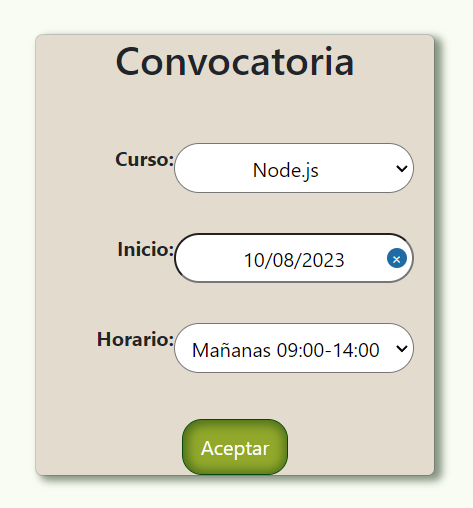
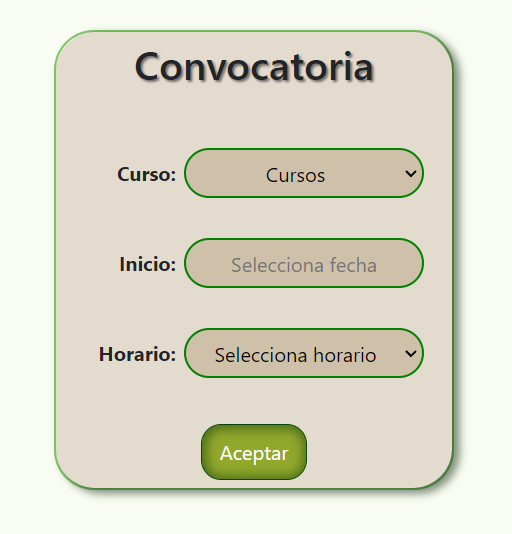
Refactor: readme, images

diff --git a/src/containers/ConvocationDetail/ConvocationDetail.jsx b/src/containers/ConvocationDetail/ConvocationDetail.jsx
@@ -45,19 +45,19 @@ export const ConvocationDetail = () => {
 
                 //DETAIL PROGRAM GETTING FROM USEPARAMS
                 <div className="convocationDetail">
-                    <div className="program-info">
-                        <h2>Curso: {convocationDetail.program.name}</h2>
-                        <div className="program-details">
-                            <div className="detail-item">
+                    <div className="programInfo">
+                        <h2 className="titleDetail">Curso: {convocationDetail.program.name}</h2>
+                        <div className="programDetails">
+                            <div className="detailItem">
                                 <strong>Comienzo:</strong> {convocationDetail.beginning}
                             </div>
-                            <div className="detail-item">
+                            <div className="detailItem">
                                 <strong>Horarios:</strong> {convocationDetail.schedule}
                             </div>
-                            <div className="detail-item">
+                            <div className="detailItem">
                                 <strong>Descripción:</strong> {convocationDetail.program.description}
                             </div>
-                            <div className="detail-item">
+                            <div className="detailItem">
                                 <strong>Precio:</strong> {convocationDetail.program.price}
                             </div>
 
@@ -73,12 +73,12 @@ export const ConvocationDetail = () => {
                     </div>
 
                     {/* SHOW THE STUDENT BY CONVOCATION */}
-                    <h3>Alumnos:</h3>
-                    <div>
+                    <h3 className="titleDetail">Alumnos:</h3>
+                    <div className="studentList">
                         {studentAccepted.map((item) => {
                             if (item.status === 1) {
                                 return (
-                                    <div key={item.id}>
+                                    <div key={item.id} className="studentItem">
                                         <h5>{item.user.name} {item.user.surname}</h5>
                                         <p>{item.user.email}</p>
                                     </div>

diff --git a/src/containers/CreateConvocation/CreateConvocation.jsx b/src/containers/CreateConvocation/CreateConvocation.jsx
@@ -39,13 +39,13 @@ export const CreateConvocation = ({ isUpdate, updateData }) => {
 
         //RENDER CREATE CONVOCATIONS
         <Container>
-            <Card style={{ maxWidth: '20em', margin: '0 auto' }}>
+            <Card style={{ maxWidth: '20em', margin: '0 auto',  borderRadius: '2em', border:'solid 0.1em rgba(99, 189, 69, 0.805)' }}>
                 <div className="cardCreate">
-                    <h2 style={{ textAlign: 'center', marginBottom: '1em' }}>Convocatoria</h2>
+                    <h2 style={{ textAlign: 'center', marginBottom: '1em', textShadow: '0.05em 0.05em 0.06em rgba(0, 0, 0, 0.5)' }}>Convocatoria</h2>
                     <div className="rowCreate">
 
                         {/* PROGRAM SELECTOR */}
-                        <strong>Curso:</strong>
+                        <strong className="nameSelectors">Curso:</strong>
                         <SelectPrograms
                             name="program_id"
                             value={convocationData.program_id}
@@ -60,7 +60,7 @@ export const CreateConvocation = ({ isUpdate, updateData }) => {
                     <div className="rowCreate">
 
                         {/* BEGINNING SELECTOR */}
-                        <strong>Inicio:</strong>
+                        <strong className="nameSelectors">Inicio:</strong>
                         <SelectDate
                             name="beginning"
                             value={convocationData.beginning}
@@ -75,7 +75,7 @@ export const CreateConvocation = ({ isUpdate, updateData }) => {
                     <div className="rowCreate">
 
                         {/* SCHEDULE SELECTOR */}
-                        <strong>Horario:</strong>
+                        <strong className="nameSelectors">Horario:</strong>
                         <SelectSchedule
                             name="schedule_id"
                             value={convocationData.schedule}

diff --git a/src/containers/ConvocationDetail/ConvocationDetail.css b/src/containers/ConvocationDetail/ConvocationDetail.css
@@ -1,14 +1,14 @@
 .convocationDetail {
-    margin: 2em;
+    margin: 1em;
     margin-top: 4em;
-    padding: 2em;
+    padding: 0.3em;
     border: 1em solid #749b7381;
     border-radius: 2em;
     display: flex;
     flex-direction: column;
 }
-.program-info {
-    
+.programInfo {
+    /* padding: 0.2em; */
     border: 0.1em solid #749b7381;
     border-radius: 2em;
     display: flex;
@@ -16,29 +16,31 @@
     align-items: center;
 }
 
-.program-details {
-    margin-top: 0.3em;
+.programDetails {
+    /* margin-top: 0.3em; */
 }
 
-.detail-item {
+.detailItem {
     margin: 0.7em;
 }
 
-.user-list {
-    margin-top: 0.1em;
+.studentList {
+    display: flex;
+    flex-wrap: wrap;
+    align-items: center;
+    justify-content: center;
+    gap: 1em; /* Espacio entre estudiantes */
 }
 
-.user-item {
-    margin-bottom: 0.2em;
+.studentItem {
+    /* flex: 1;  */
+    max-width: calc(50% - 20px); /* Establece el ancho máximo de cada columna (50% - espacio) */
+    padding: 10px;
+    border: 1px solid #ccc;
+    margin-bottom: 20px; /* Espacio entre estudiantes */
+    overflow: hidden;
 }
-
-.user-item h4 {
-    margin: 0;
-    font-size: 1em;
-}
-
-.user-item p {
-    margin: 0;
-    font-size: 0.8em;
-    color: #818181;
+.titleDetail{
+    text-align: center;
+    text-shadow: 0.05em 0.05em 0.06em rgba(0, 0, 0, 0.5);
 }

diff --git a/src/containers/CreateConvocation/CreateConvocation.css b/src/containers/CreateConvocation/CreateConvocation.css
@@ -3,17 +3,26 @@
     width: 12em;
     height: 2.5em;
     border-radius: 2em;
+    background-color: rgba(142, 106, 53, 0.239);
+    border: 0.1em solid green;
 }
 .cardCreate{
     display: flex;
     flex-direction: column;
     background-color: rgba(142, 106, 53, 0.239);
-    border-radius: 0.3em;
+    border-radius: 2em;
     box-shadow:  0.3em 0.2em 0.4em 0.1em rgba(6, 32, 4, 0.476); 
+    padding: 0.4em;
 }
 
 .rowCreate {
     display: flex;
     margin: 1em;
     justify-content: end;
+}
+.nameSelectors{
+    display: flex;
+    justify-content: center;
+    align-items: center;
+    margin: 0.4em;
 }

diff --git a/hooks/useFetchSelectSchedule.jsx b/hooks/useFetchSelectSchedule.jsx
@@ -9,7 +9,7 @@ export const SelectSchedule = ({ handleChange, value }) => {
 
     return (
         <select className="inputConvocation" value={value} onChange={(e) => handleChange(e.target.value)}>
-            <option value="">Selecciona horario:</option>
+            <option value="">Selecciona horario</option>
             {schedules.map((schedule) => (
                 <option key={schedule.id} value={schedule.schedule}>
                     {schedule.schedule}

diff --git a/hooks/useFetchSelectDate.jsx b/hooks/useFetchSelectDate.jsx
@@ -30,7 +30,7 @@ export const SelectDate = ({ handleChange, value }) => {
                 selected={selectedDate}
                 onChange={handleDateChange}
                 dateFormat="dd/MM/yyyy"
-                placeholderText="Selecciona una fecha"
+                placeholderText="Selecciona fecha"
                 showMonthDropdown
                 showYearDropdown
                 dropdownMode="select"

diff --git a/README.md b/README.md
@@ -102,7 +102,7 @@ Podrá crear las convocatorias necesarias, escogiendo curso, fecha inicio y hora
 
 ### DETALLE/EDITAR CONVOCATORIAS
 !['adminconvo'](./src/assets/adminconvo.png)
-!['detailconvo'](./src/assets/detailconvo.png)
+!['detailconvo'](./src/assets/detailconvo.jpeg)
 
 En la vista detalle podrá ver toda la información del curso, los alumnos matriculados en el mismo y en caso de necesitarlo también poder editar ya sea el horario, la fecha o el curso en sí.
 
